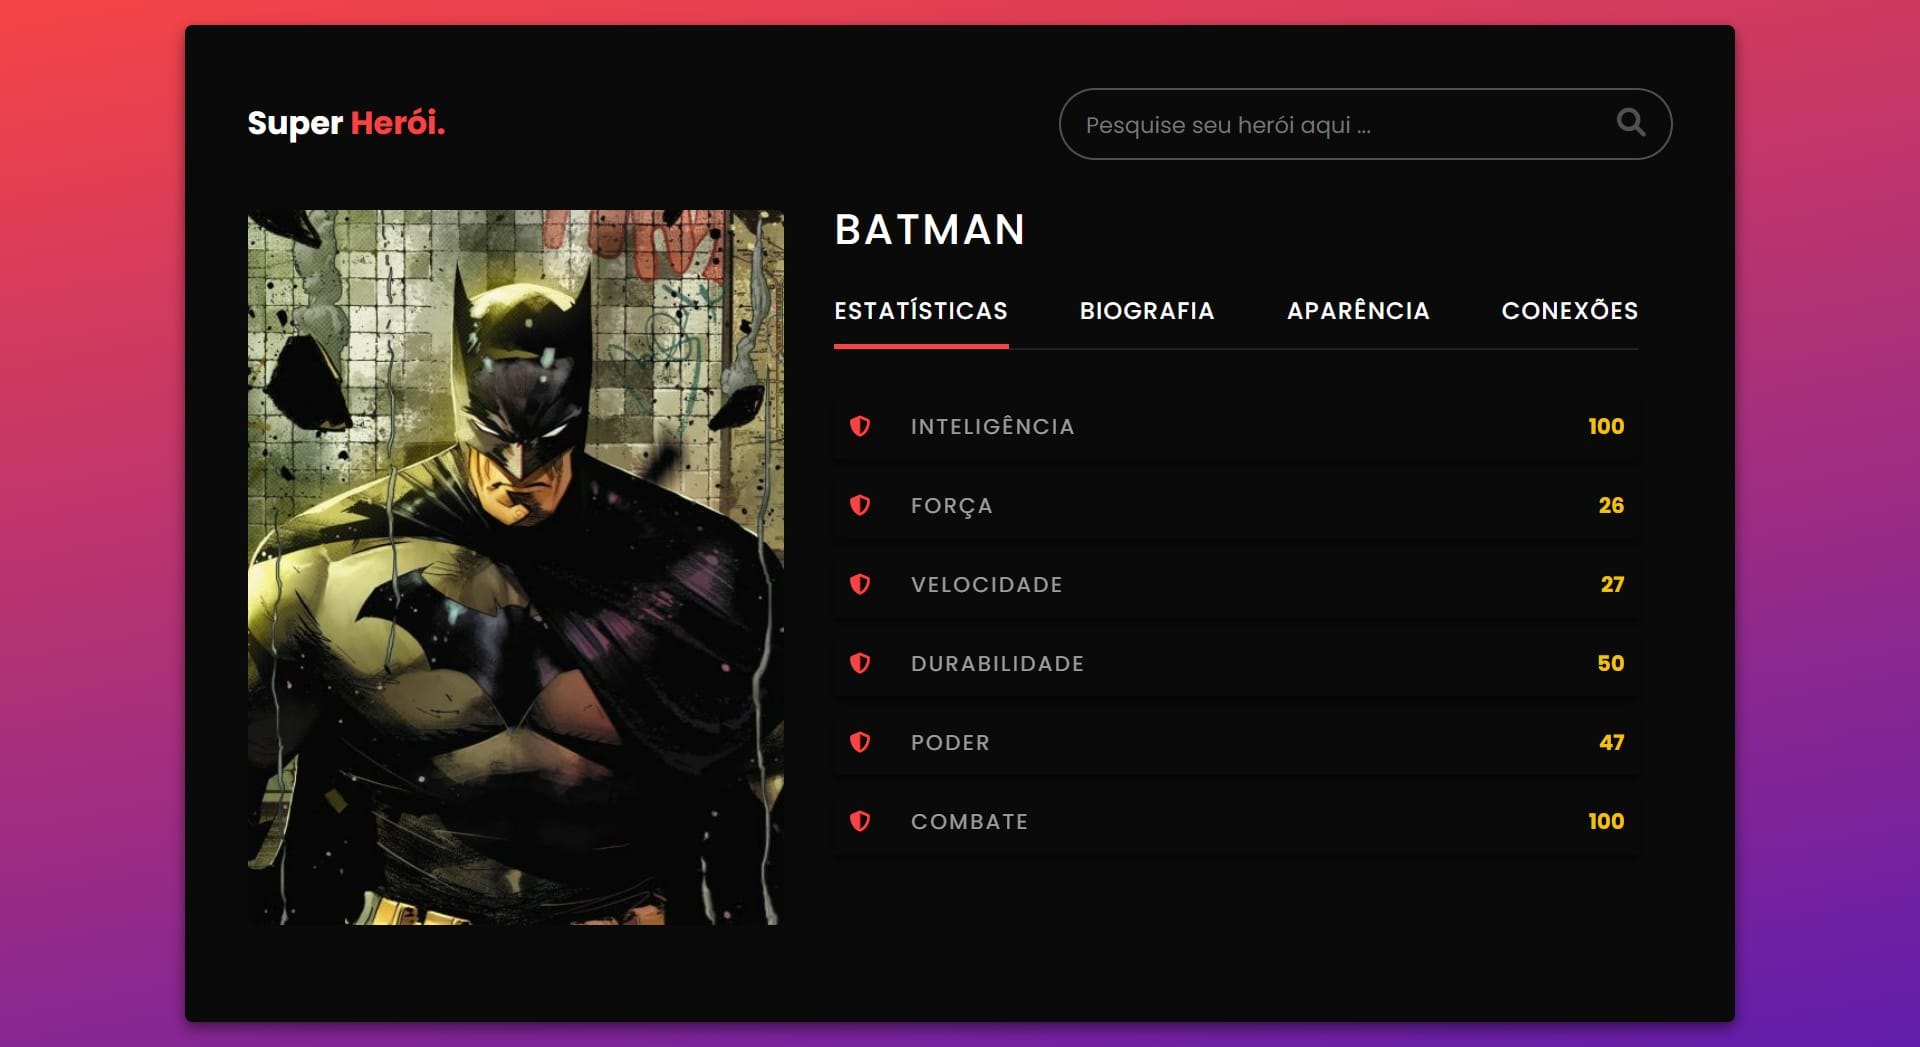
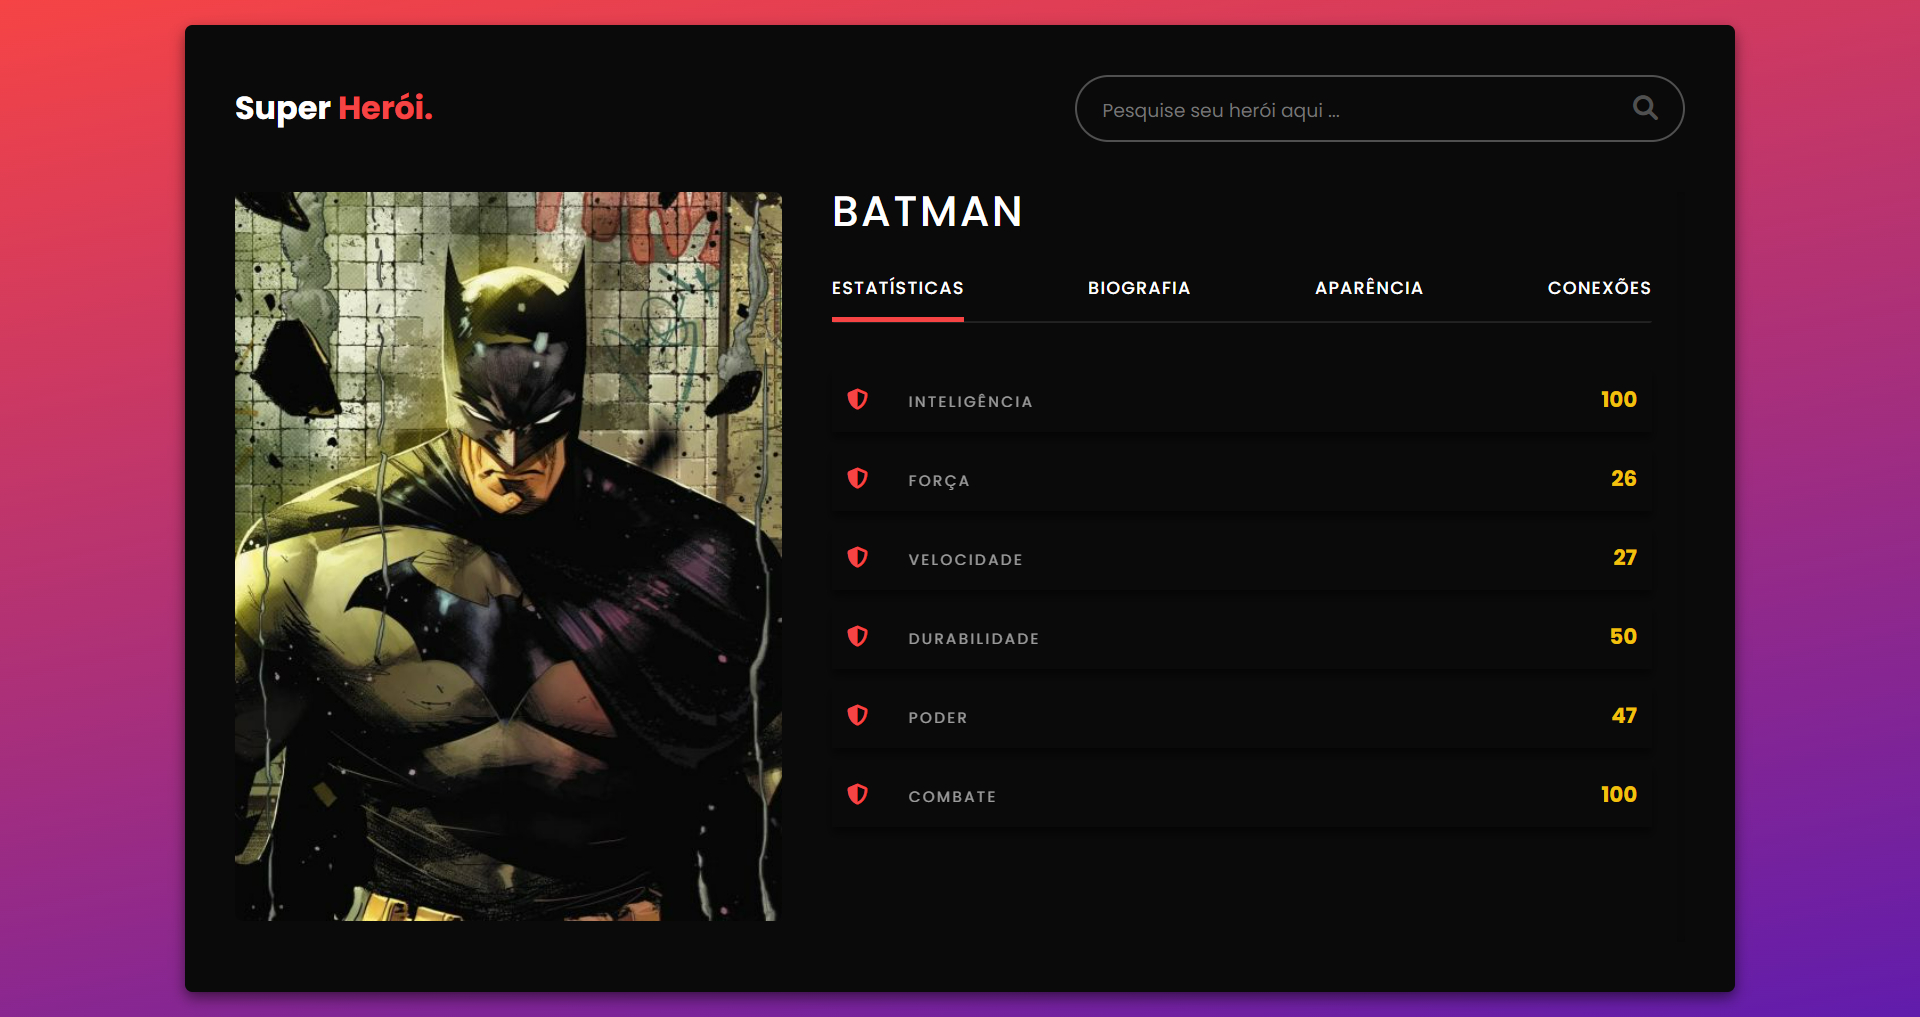
Melhorar acessibilidade do design

diff --git a/assets/css/styles.css b/assets/css/styles.css
@@ -42,7 +42,7 @@ body {
 button,
 input {
     font-family: inherit;
-    font-size: 1.8rem;
+    font-size: 1.5rem;
     outline: 0;
     border: none;
     background-color: transparent;
@@ -66,7 +66,7 @@ img {
 .app {
     background-color: var(--dark-color);
     margin: 2rem;
-    padding: 5rem;
+    padding: 4rem;
     border-radius: 6px;
     color: #fff;
     -webkit-box-shadow: 0px 5px 11px 0px rgba(0, 0, 0, 0.5);
@@ -103,7 +103,7 @@ img {
 
 .app-header-search .search-btn {
     color: var(--grey-color);
-    font-size: 2.3rem;
+    font-size: 2rem;
     cursor: pointer;
 }
 
@@ -194,7 +194,7 @@ img {
     letter-spacing: 1px;
     position: relative;
     font-weight: 500;
-    font-size: 1.9rem;
+    font-size: 1.4rem;
     color: #fff;
     cursor: pointer;
     -webkit-transition: all 300ms ease-in-out;
@@ -271,7 +271,7 @@ img {
     padding: 0 1.2rem;
     margin: 0 1.6rem;
     opacity: 0.6;
-    font-size: 1.7rem;
+    font-size: 1.2rem;
 }
 
 .powerstats li>span {

diff --git a/README.md b/README.md
@@ -5,7 +5,7 @@
 <p>Um projeto dedicado ao universo dos super-heróis, trazendo informações detalhadas sobre seus personagens favoritos. Neste exemplo, apresentamos o Batman, um dos mais icônicos super-heróis da DC Comics.</p> 
 </div>
 
-![alt text](preview.jpg)
+![alt text](readme-images/preview.jpg)
 
 👨🏼💻 <b>Tecnologias utilizadas:</b>
 
